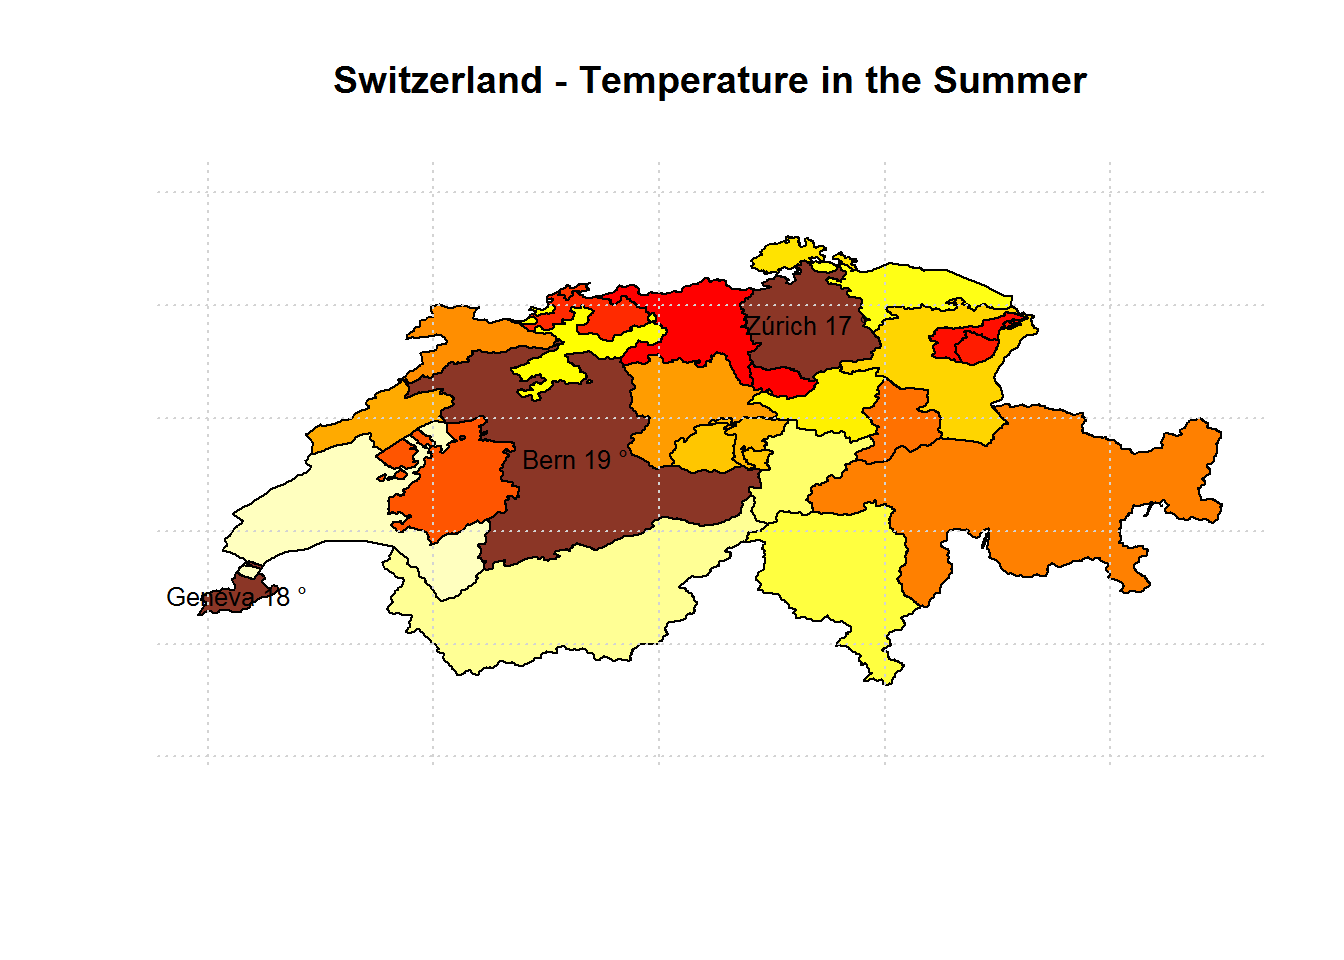
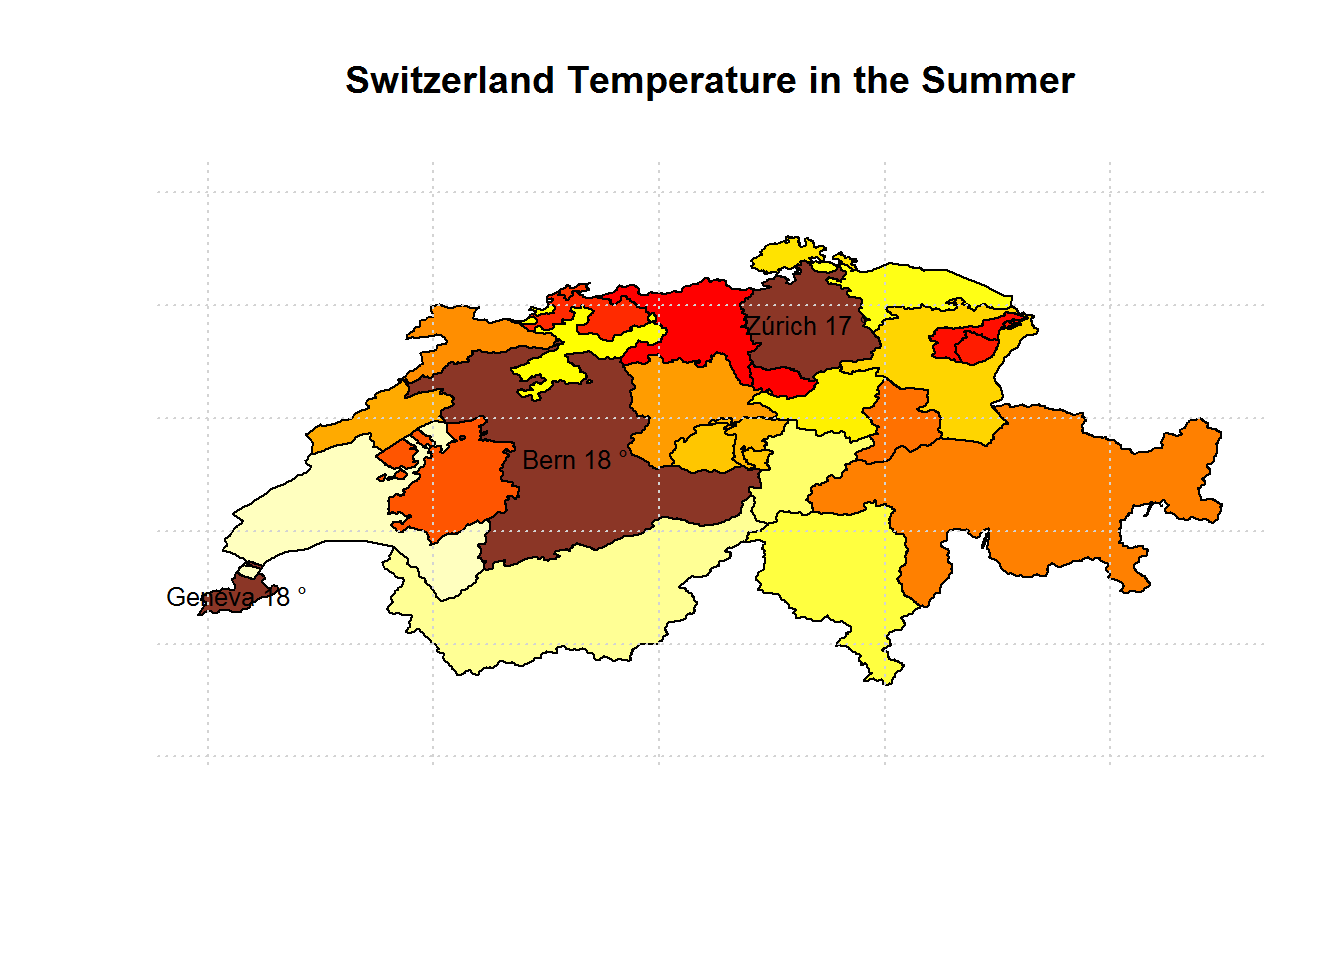
pyramid

Changed region(s): [[0.25, 0.0625, 0.8125, 0.125]]

diff --git a/data_visuals.html b/data_visuals.html
@@ -225,7 +225,7 @@ mycols &lt;- colors()[round(runif(25,100,130))]
 mycols&lt;-heat.colors(25)
 mycols[c(6,8,25)]&lt;-&quot;tomato4&quot;
 
-plot(cantones,col=mycols,main=&quot;Switzerland - Temperature in the Summer&quot;)
+plot(cantones,col=mycols,main=&quot;Switzerland Temperature in the Summer&quot;)
 grid()
 zh&lt;-getCurrentTemperature(&quot;LSZH&quot;)[,c(2)]
 br&lt;-getCurrentTemperature(&quot;LSZB&quot;)[,c(2)]
